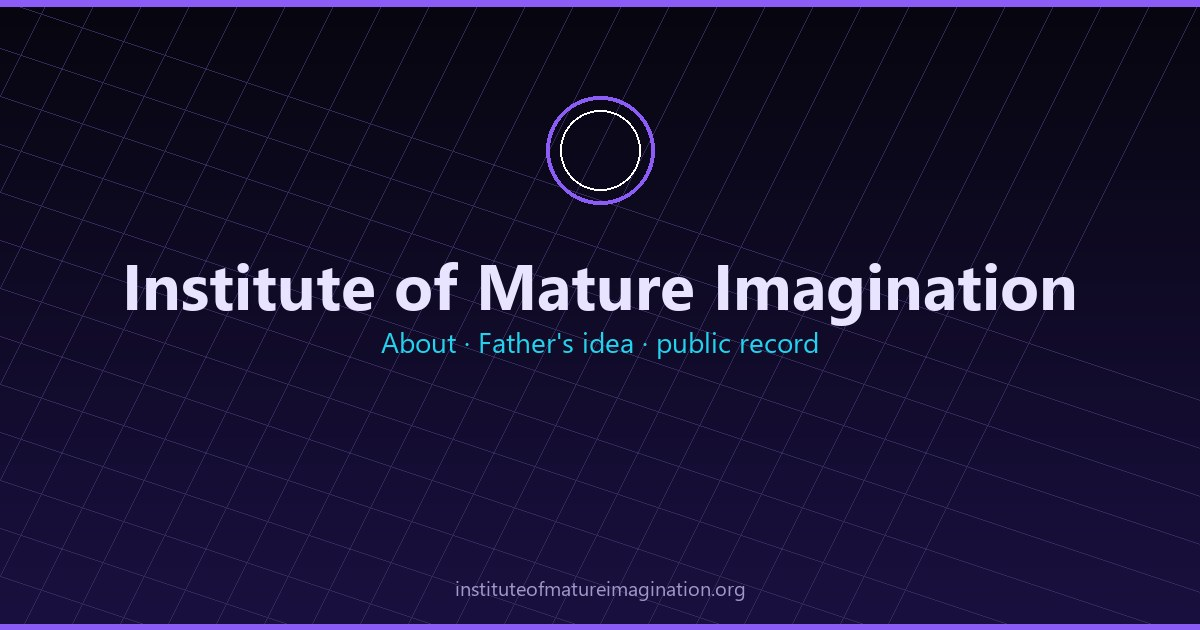
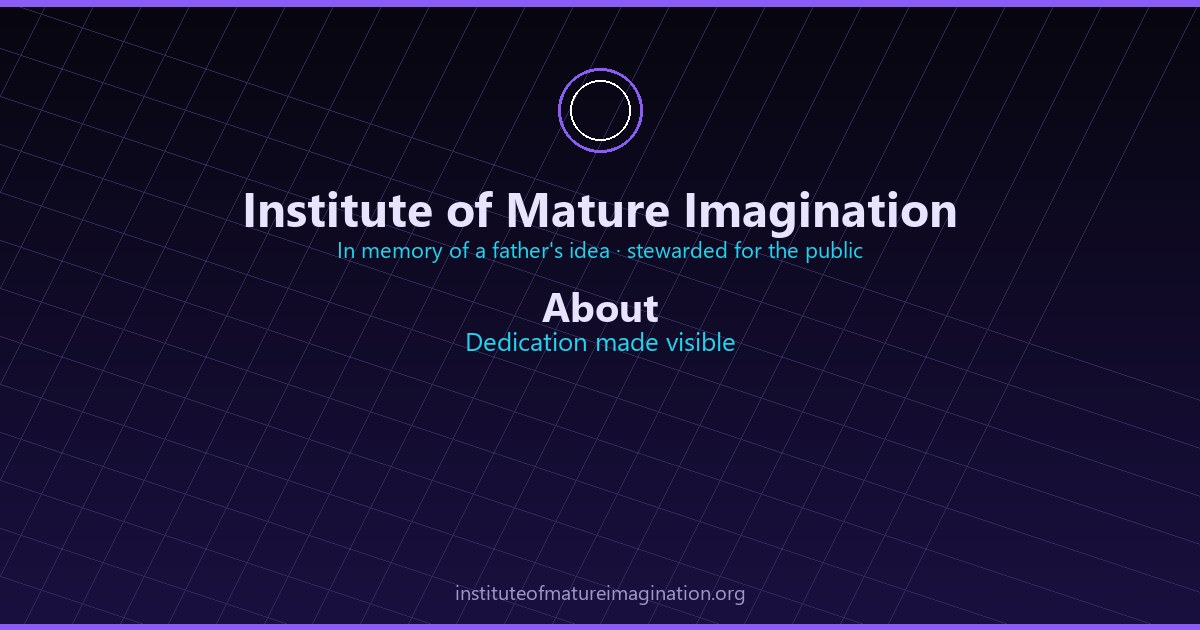
fix(brand): IMI memorial line in chrome and OG; page titles on cards

Changed region(s): [[0.0925, 0.0905, 0.8942, 0.573], [0.37, 0.9048, 0.6167, 0.9651]]

diff --git a/js/site-chrome.js b/js/site-chrome.js
@@ -44,14 +44,26 @@
         );
       })
       .join('');
+    var primary = chrome.brand_primary || 'Institute of Mature Imagination';
+    var secondary =
+      chrome.brand_secondary ||
+      "In memory of a father's idea · stewarded for the public";
     return (
-      '<div class="max-w-5xl mx-auto px-4 h-14 flex items-center justify-between gap-3">' +
+      '<div class="max-w-5xl mx-auto px-4 py-2.5 flex items-center justify-between gap-3">' +
       '<a href="' +
       esc(chrome.home_href || 'index.html') +
-      '" class="flex items-center gap-2 text-star font-semibold min-w-0" title="Institute of Mature Imagination">' +
+      '" class="flex items-center gap-2 text-star font-semibold min-w-0" title="' +
+      esc(primary + ' — ' + secondary) +
+      '">' +
       '<span class="w-8 h-8 shrink-0 rounded-lg glass flex items-center justify-center text-xs text-accent">' +
       esc(chrome.mark || 'IMI') +
-      '</span><span class="text-sm sm:text-base leading-snug truncate">Institute of Mature Imagination</span></a>' +
+      '</span><span class="flex flex-col leading-tight min-w-0">' +
+      '<span class="text-sm sm:text-base leading-snug truncate">' +
+      esc(primary) +
+      '</span>' +
+      '<span class="text-[10px] sm:text-[11px] font-normal text-glow/80 tracking-wide truncate">' +
+      esc(secondary) +
+      '</span></span></a>' +
       '<nav class="hidden md:flex items-center gap-5 shrink-0">' +
       desktop +
       '</nav>' +
@@ -82,6 +94,12 @@
       '<div>Sister network: ' +
       sisters +
       '</div>' +
+      '<p class="text-xs text-glow/70">' +
+      esc(
+        chrome.brand_secondary ||
+          "In memory of a father's idea · stewarded for the public"
+      ) +
+      '</p>' +
       '<p class="text-xs text-star/40">Archive stewarded for the public record. Analytics may run on sister sites.</p>' +
       '</div>'
     );

diff --git a/index.html b/index.html
@@ -11,11 +11,11 @@
   <meta property="og:description" content="Organized repository of recorded and live X Spaces. Talk out loud. Find the moment. Trust the record." />
   <meta property="og:type" content="website" />
   <meta property="og:url" content="https://instituteofmatureimagination.org/" />
-  <meta property="og:image" content="https://instituteofmatureimagination.org/images/og/og-home.jpg?v=20260802d" />
+  <meta property="og:image" content="https://instituteofmatureimagination.org/images/og/og-home.jpg?v=20260802e" />
   <meta property="og:image:width" content="1200" />
   <meta property="og:image:height" content="630" />
   <meta name="twitter:card" content="summary_large_image" />
-  <meta name="twitter:image" content="https://instituteofmatureimagination.org/images/og/og-home.jpg?v=20260802d" />
+  <meta name="twitter:image" content="https://instituteofmatureimagination.org/images/og/og-home.jpg?v=20260802e" />
   <script src="analytics-config.js"></script>
   <script src="analytics.js" defer></script>
   <script src="https://cdn.tailwindcss.com"></script>

diff --git a/videos.html b/videos.html
@@ -11,11 +11,11 @@
   <meta property="og:description" content="Recorded knowledge under the One Mission — archived by IMI." />
   <meta property="og:type" content="website" />
   <meta property="og:url" content="https://instituteofmatureimagination.org/videos" />
-  <meta property="og:image" content="https://instituteofmatureimagination.org/images/og/og-videos.jpg?v=20260802d" />
+  <meta property="og:image" content="https://instituteofmatureimagination.org/images/og/og-videos.jpg?v=20260802e" />
   <meta property="og:image:width" content="1200" />
   <meta property="og:image:height" content="630" />
   <meta name="twitter:card" content="summary_large_image" />
-  <meta name="twitter:image" content="https://instituteofmatureimagination.org/images/og/og-videos.jpg?v=20260802d" />
+  <meta name="twitter:image" content="https://instituteofmatureimagination.org/images/og/og-videos.jpg?v=20260802e" />
   <script src="analytics-config.js"></script>
   <script src="analytics.js" defer></script>
   <script src="https://cdn.tailwindcss.com"></script>

diff --git a/about.html b/about.html
@@ -11,11 +11,11 @@
   <meta property="og:description" content="This is for you, Dad. A dedication, made visible." />
   <meta property="og:type" content="website" />
   <meta property="og:url" content="https://instituteofmatureimagination.org/about" />
-  <meta property="og:image" content="https://instituteofmatureimagination.org/images/og/og-about.jpg?v=20260802d" />
+  <meta property="og:image" content="https://instituteofmatureimagination.org/images/og/og-about.jpg?v=20260802e" />
   <meta property="og:image:width" content="1200" />
   <meta property="og:image:height" content="630" />
   <meta name="twitter:card" content="summary_large_image" />
-  <meta name="twitter:image" content="https://instituteofmatureimagination.org/images/og/og-about.jpg?v=20260802d" />
+  <meta name="twitter:image" content="https://instituteofmatureimagination.org/images/og/og-about.jpg?v=20260802e" />
   <script src="analytics-config.js"></script>
   <script src="analytics.js" defer></script>
   <script src="https://cdn.tailwindcss.com"></script>
